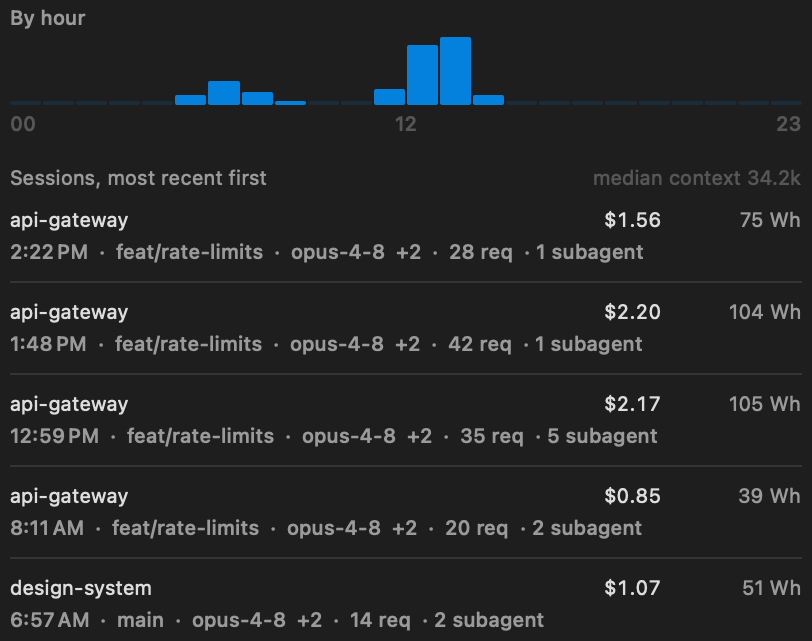
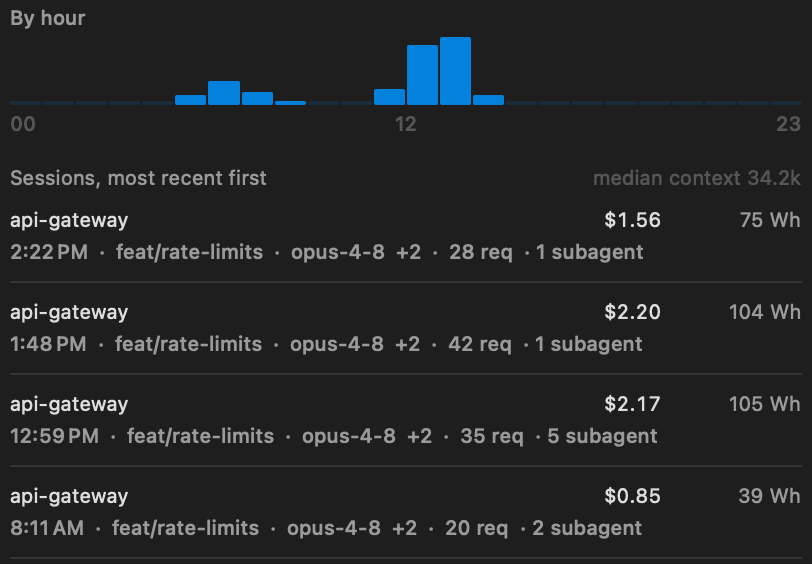
Reframe the showcase as a bento of focused captures
Drop the window chrome: its hard title bar read as a seam. Each capture
now bleeds into its tile and fades out at the bottom where the caption
takes over, and the panes are cropped to their subject at asset time so a
tile shows a legible headline instead of a whole pane shrunk to fit.

The menu bar item sits in a strip of menu bar that fades out left and
right, rather than in a pill. Tiles are laid out as a 6 column bento
(4/2 over 3/3) instead of a uniform grid.

diff --git a/src/components/Showcase.tsx b/src/components/Showcase.tsx
@@ -6,8 +6,10 @@ import Image from "next/image";
  * (tools/seed-demo-store.py). No real project names or spend appear anywhere,
  * which is the reason the repo ships no captures of a live store.
  *
- * Each panel is framed in macOS window chrome so it reads as an application
- * rather than a floating screenshot, and the stoplight dots are decorative.
+ * The panes are cropped to their subject at asset time (tools/prep-shots.py),
+ * so a card shows a legible headline rather than a whole pane shrunk to fit.
+ * Here each one is bled into its tile and faded at the edges instead of being
+ * boxed in window chrome — the hard-edged title bar read as a seam.
  */
 
 type Shot = {
@@ -17,32 +19,37 @@ type Shot = {
   title: string;
   body: string;
   alt: string;
+  /** Tailwind column span on the bento grid at md and up. */
+  span: string;
 };
 
 const SHOTS: Shot[] = [
   {
     src: "/shots/shot-today.png",
     width: 812,
-    height: 1632,
+    height: 718,
     title: "Today, and the days behind it",
     body: "The headline is what you have spent and the energy behind it. Under it, every day ranked, so a heavy session is obvious the moment it lands.",
     alt: "The AgentSpend home pane: a 14 day total of $87, a bar chart of daily cost, and a per day table of cost, energy and request counts.",
+    span: "md:col-span-4",
   },
   {
     src: "/shots/shot-savings.png",
     width: 812,
-    height: 924,
+    height: 351,
     title: "What it would save you",
     body: "Ranked over your whole history, not just today. Each suggestion carries the number it is worth and the caveat that comes with it.",
-    alt: "The savings pane: up to $45 identified, a recommendation to default to Sonnet 5, and the whole history replayed on each model.",
+    alt: "The savings pane: up to $45 identified, and a recommendation to default to Sonnet 5 while reserving the top tier for hard work.",
+    span: "md:col-span-2",
   },
   {
     src: "/shots/shot-sessions.png",
     width: 812,
-    height: 641,
+    height: 564,
     title: "Session by session",
-    body: "Which project, which branch, which model, and what the run cost. The hour histogram shows when the work actually happens.",
+    body: "Which project, which branch, which model, and what the run cost.",
     alt: "The sessions pane: a by hour histogram and a list of sessions with project, branch, model, request count and cost.",
+    span: "md:col-span-3",
   },
   {
     src: "/shots/shot-method.png",
@@ -51,44 +58,76 @@ const SHOTS: Shot[] = [
     title: "Every coefficient, in the open",
     body: "The energy model is a model. The app ships its per model baselines and sources so you can read them, and argue with them.",
     alt: "The methodology pane: a per model baseline table of watt hours per 1k input and output tokens, with each model's token share.",
+    span: "md:col-span-3",
   },
 ];
 
-function WindowFrame({ shot }: { shot: Shot }) {
-  return (
-    <div className="glass overflow-hidden rounded-2xl">
-      {/* Title bar. Decorative, so it stays out of the accessibility tree. */}
-      <div
-        aria-hidden="true"
-        className="flex items-center gap-1.5 border-b border-white/8 bg-white/4 px-4 py-3"
-      >
-        <span className="size-2.5 rounded-full bg-white/18" />
-        <span className="size-2.5 rounded-full bg-white/13" />
-        <span className="size-2.5 rounded-full bg-white/10" />
-      </div>
+/* Dissolves the capture into the tile at the bottom, where the caption takes
+ * over, instead of ending on a hard edge. Only the bottom fades: the sides
+ * meet the tile's own rounded clip, and fading them inward clipped the first
+ * character of every line. */
+const EDGE_FADE = {
+  maskImage: "linear-gradient(to bottom, #000 0%, #000 58%, transparent 100%)",
+  WebkitMaskImage:
+    "linear-gradient(to bottom, #000 0%, #000 58%, transparent 100%)",
+} as const;
 
+function MenuBarStrip() {
+  return (
+    <div className="mt-12">
       {/*
-       * The panes have very different natural heights (the home pane is four
-       * times the methodology table). Pinning every frame to one height and
-       * anchoring the crop to the top keeps the grid rows aligned instead of
-       * ragged; the fade at the bottom makes the cut read as deliberate
-       * rather than clipped.
+       * The item as it actually sits: in a strip of menu bar, which fades out
+       * left and right rather than ending in a pill. Menu bar items are right
+       * aligned on macOS, so the item hugs the right of the strip.
        */}
-      <div className="relative max-h-[420px] overflow-hidden">
+      <div
+        className="relative mx-auto flex h-9 max-w-2xl items-center justify-end rounded-lg border-t border-white/10 bg-white/6 pr-4 backdrop-blur-xl"
+        style={{
+          maskImage:
+            "linear-gradient(to right, transparent, #000 18%, #000 82%, transparent)",
+          WebkitMaskImage:
+            "linear-gradient(to right, transparent, #000 18%, #000 82%, transparent)",
+        }}
+      >
+        <Image
+          src="/shots/shot-menubar.png"
+          alt="The AgentSpend menu bar item, showing a lightning bolt and today's cost."
+          width={82}
+          height={28}
+          className="h-[18px] w-auto"
+        />
+      </div>
+      <p className="mt-4 text-center text-sm text-muted">
+        Always visible. Updates while you work.
+      </p>
+    </div>
+  );
+}
+
+function Tile({ shot }: { shot: Shot }) {
+  return (
+    <figure
+      className={`glass flex flex-col overflow-hidden rounded-3xl ${shot.span}`}
+    >
+      {/* The capture fills whatever height the bento row settles on, anchored
+       * top-left so the headline is never the part that gets cropped. `flex-1`
+       * keeps a short pane from leaving dead space under it. */}
+      <div className="relative min-h-[230px] flex-1">
         <Image
           src={shot.src}
           alt={shot.alt}
-          width={shot.width}
-          height={shot.height}
-          sizes="(min-width: 768px) 520px, 100vw"
-          className="w-full"
-        />
-        <div
-          aria-hidden="true"
-          className="pointer-events-none absolute inset-x-0 bottom-0 h-24 bg-gradient-to-b from-transparent to-canvas/95"
+          fill
+          sizes="(min-width: 768px) 560px, 100vw"
+          className="object-cover object-left-top"
+          style={EDGE_FADE}
         />
       </div>
-    </div>
+
+      <figcaption className="px-7 pb-7 sm:px-8 sm:pb-8">
+        <h3 className="text-lg font-medium">{shot.title}</h3>
+        <p className="mt-2 text-sm/6 text-muted">{shot.body}</p>
+      </figcaption>
+    </figure>
   );
 }
 
@@ -109,34 +148,11 @@ export function Showcase() {
         One click from the menu bar. Here is what it shows you.
       </p>
 
-      {/* The menu bar item at its real size, pinned to a strip of "menu bar". */}
-      <div className="mt-12 flex justify-center">
-        <div className="glass inline-flex items-center gap-3 rounded-full py-2 pr-5 pl-3">
-          <Image
-            src="/shots/shot-menubar.png"
-            alt="The AgentSpend menu bar item, showing a lightning bolt and today's cost."
-            width={82}
-            height={28}
-            className="h-5 w-auto"
-          />
-          <span className="text-sm text-muted">
-            Always visible. Updates while you work.
-          </span>
-        </div>
-      </div>
+      <MenuBarStrip />
 
-      {/* Masonry, not a grid: the panes cap at different heights, and columns
-       * pack them tightly instead of leaving a row's worth of dead space under
-       * the shorter one. */}
-      <div className="mt-14 columns-1 gap-6 md:columns-2">
+      <div className="mt-14 grid gap-5 md:grid-cols-6">
         {SHOTS.map((shot) => (
-          <figure key={shot.src} className="mb-10 break-inside-avoid">
-            <WindowFrame shot={shot} />
-            <figcaption className="mt-5">
-              <h3 className="text-lg font-medium">{shot.title}</h3>
-              <p className="mt-2 text-sm/6 text-muted">{shot.body}</p>
-            </figcaption>
-          </figure>
+          <Tile key={shot.src} shot={shot} />
         ))}
       </div>
 

diff --git a/tools/prep-shots.py b/tools/prep-shots.py
@@ -101,16 +101,19 @@ def main():
     src, dst = sys.argv[1], sys.argv[2]
     os.makedirs(dst, exist_ok=True)
 
-    # Rendered pane -> published filename.
+    # Rendered pane -> published filename, plus how far down the pane the part
+    # actually worth showing runs. Cropping here rather than masking in CSS
+    # keeps the subject large in the frame instead of shrinking a full pane
+    # into a card and fading most of it away.
     wanted = {
-        "content-home": "shot-today",
-        "content-sessions": "shot-sessions",
-        "content-savings": "shot-savings",
-        "content-method": "shot-method",
-        "menubar-label": "shot-menubar",
+        "content-home": ("shot-today", 0.44),
+        "content-sessions": ("shot-sessions", 0.88),
+        "content-savings": ("shot-savings", 0.38),
+        "content-method": ("shot-method", 1.0),
+        "menubar-label": ("shot-menubar", 1.0),
     }
 
-    for stem, out_name in wanted.items():
+    for stem, (out_name, focus) in wanted.items():
         path = os.path.join(src, f"{stem}.png")
         if not os.path.exists(path):
             print(f"  skip {stem} (missing)")
@@ -120,6 +123,9 @@ def main():
         if stem != "menubar-label":
             im = crop_placeholder(im)
         im = trim(im)
+        if focus < 1.0:
+            w, h = im.size
+            im = im.crop((0, 0, w, int(h * focus)))
         out = os.path.join(dst, f"{out_name}.png")
         im.save(out, optimize=True)
         kb = os.path.getsize(out) / 1024
